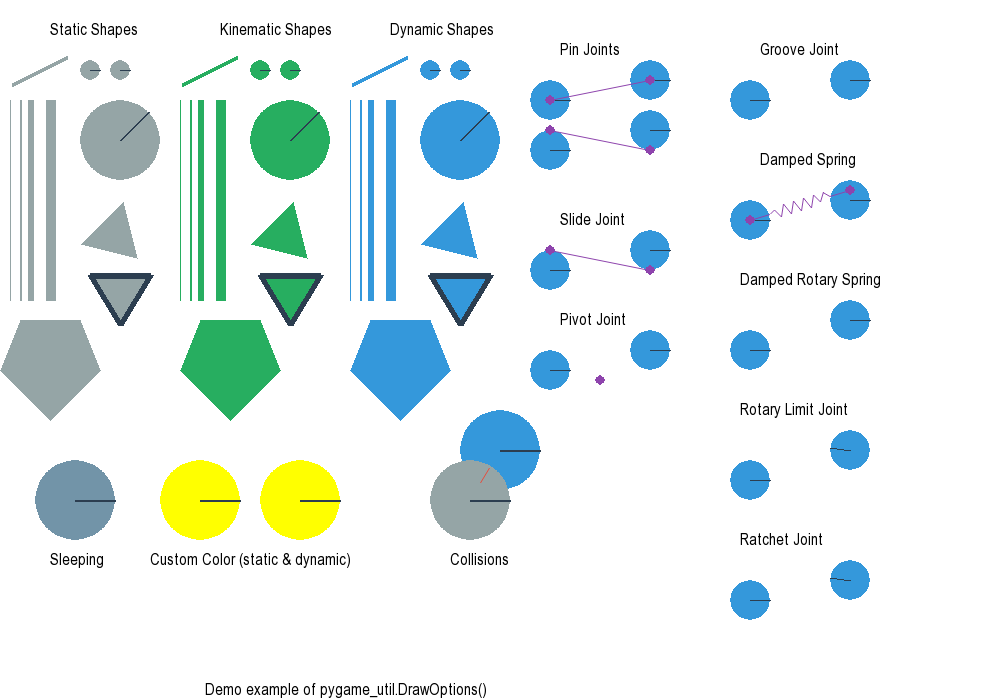
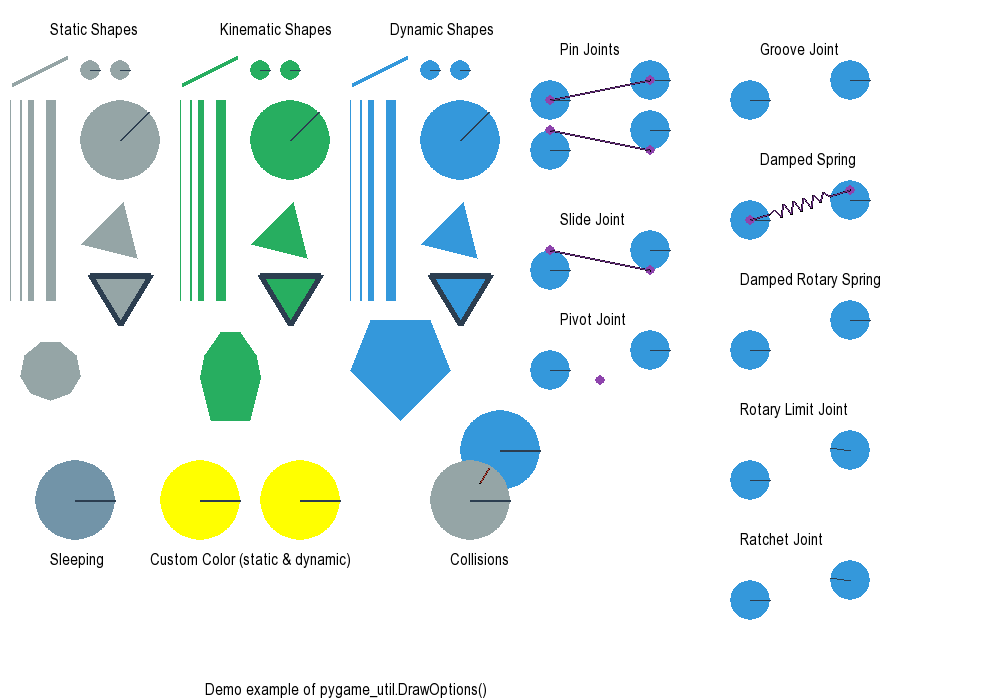
Fix drawing of polygon shapes with pyglet. Issue #109

diff --git a/examples/shapes_for_draw_demos.py b/examples/shapes_for_draw_demos.py
@@ -57,7 +57,7 @@ def fill_space(space, custom_color=(255,255,0,255)):
     b = pymunk.Body(body_type=pymunk.Body.STATIC)
     b.position = (50,430)
     t = pymunk.Transform(ty=-100)
-    s = pymunk.Poly(b, [(0, -50), (50, 0), (30, 50),(-30, 50),(-50, 0)], t)
+    s = pymunk.Poly(b, [(0.0, -30.0), (19.0, -23.0), (30.0, -5.0), (26.0, 15.0), (10.0, 28.0), (-10.0, 28.0), (-26.0, 15.0), (-30.0, -5.0), (-19.0, -23.0)], t)
     space.add(s)
     
     ### Kinematic
@@ -111,9 +111,9 @@ def fill_space(space, custom_color=(255,255,0,255)):
     b = pymunk.Body(body_type=pymunk.Body.KINEMATIC)
     b.position = (230,430)
     t = pymunk.Transform(ty=-100)
-    s = pymunk.Poly(b, [(0, -50), (50, 0), (30, 50),(-30, 50),(-50, 0)], t)
+    s = pymunk.Poly(b, [(19.0, -50.0), (30.0, -5.0), (26.0, 15.0), (10.0, 38.0), (-10.0, 38.0), (-26.0, 15.0), (-30.0, -5.0), (-19.0, -50.0)], t)
     space.add(s)
-    
+
     ### Dynamic
     captions.append(((390,680), "Dynamic Shapes"))
 

diff --git a/pymunk/pyglet_util.py b/pymunk/pyglet_util.py
@@ -175,15 +175,21 @@ class DrawOptions(pymunk.SpaceDebugDrawOptions):
                     ('c4B', fill_color.as_int() * l))
 
     def draw_polygon(self, verts, radius, outline_color, fill_color):
-        ps = verts
-            
         mode = pyglet.gl.GL_TRIANGLE_STRIP
-        ps = [ps[1],ps[2], ps[0]] + ps[3:]
+
+        l = len(verts)
+        mid = len(verts) // 2 
         
         vs = []
-        for p in [ps[0]] + ps + [ps[-1]]:
-                vs += [p.x, p.y]
+        for i in range(mid):
+            vs += [verts[i].x, verts[i].y]
+            vs += [verts[l-1-i].x, verts[l-1-i].y]
+
+        if l%2:
+            vs += [verts[mid].x, verts[mid].y]
             
+        vs = [vs[0], vs[1]] + vs + [vs[-2], vs[-1]]
+
         l = len(vs)//2
         self.batch.add(l, mode, None,
                     ('v2f', vs),

diff --git a/examples/pyglet_util_demo.py b/examples/pyglet_util_demo.py
@@ -3,7 +3,6 @@
 See pygame_util_demo.py for a comparison to pygame.
 """
 
-__version__ = "$Id:$"
 __docformat__ = "reStructuredText"
 
 import sys
